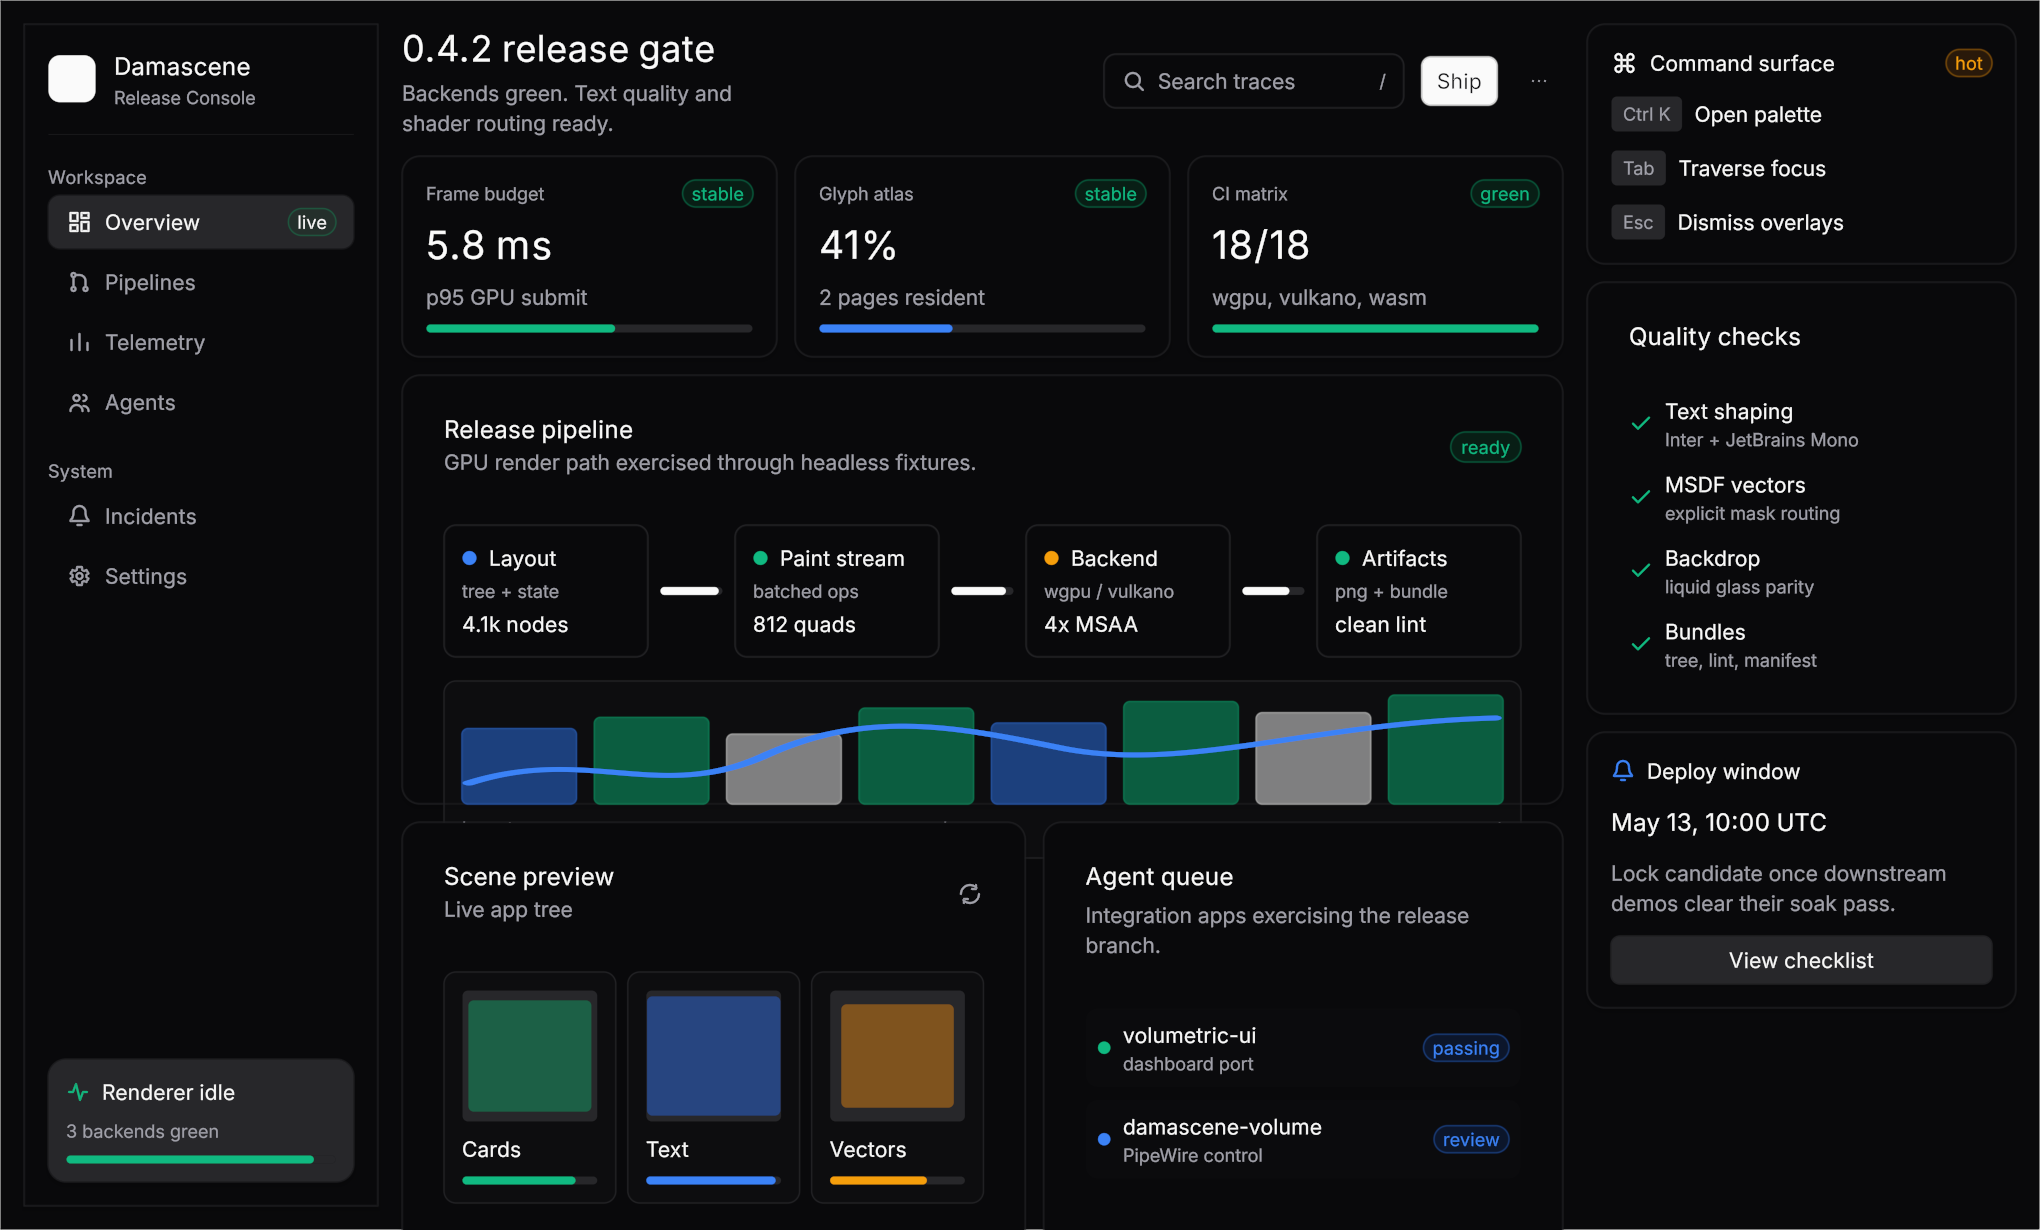
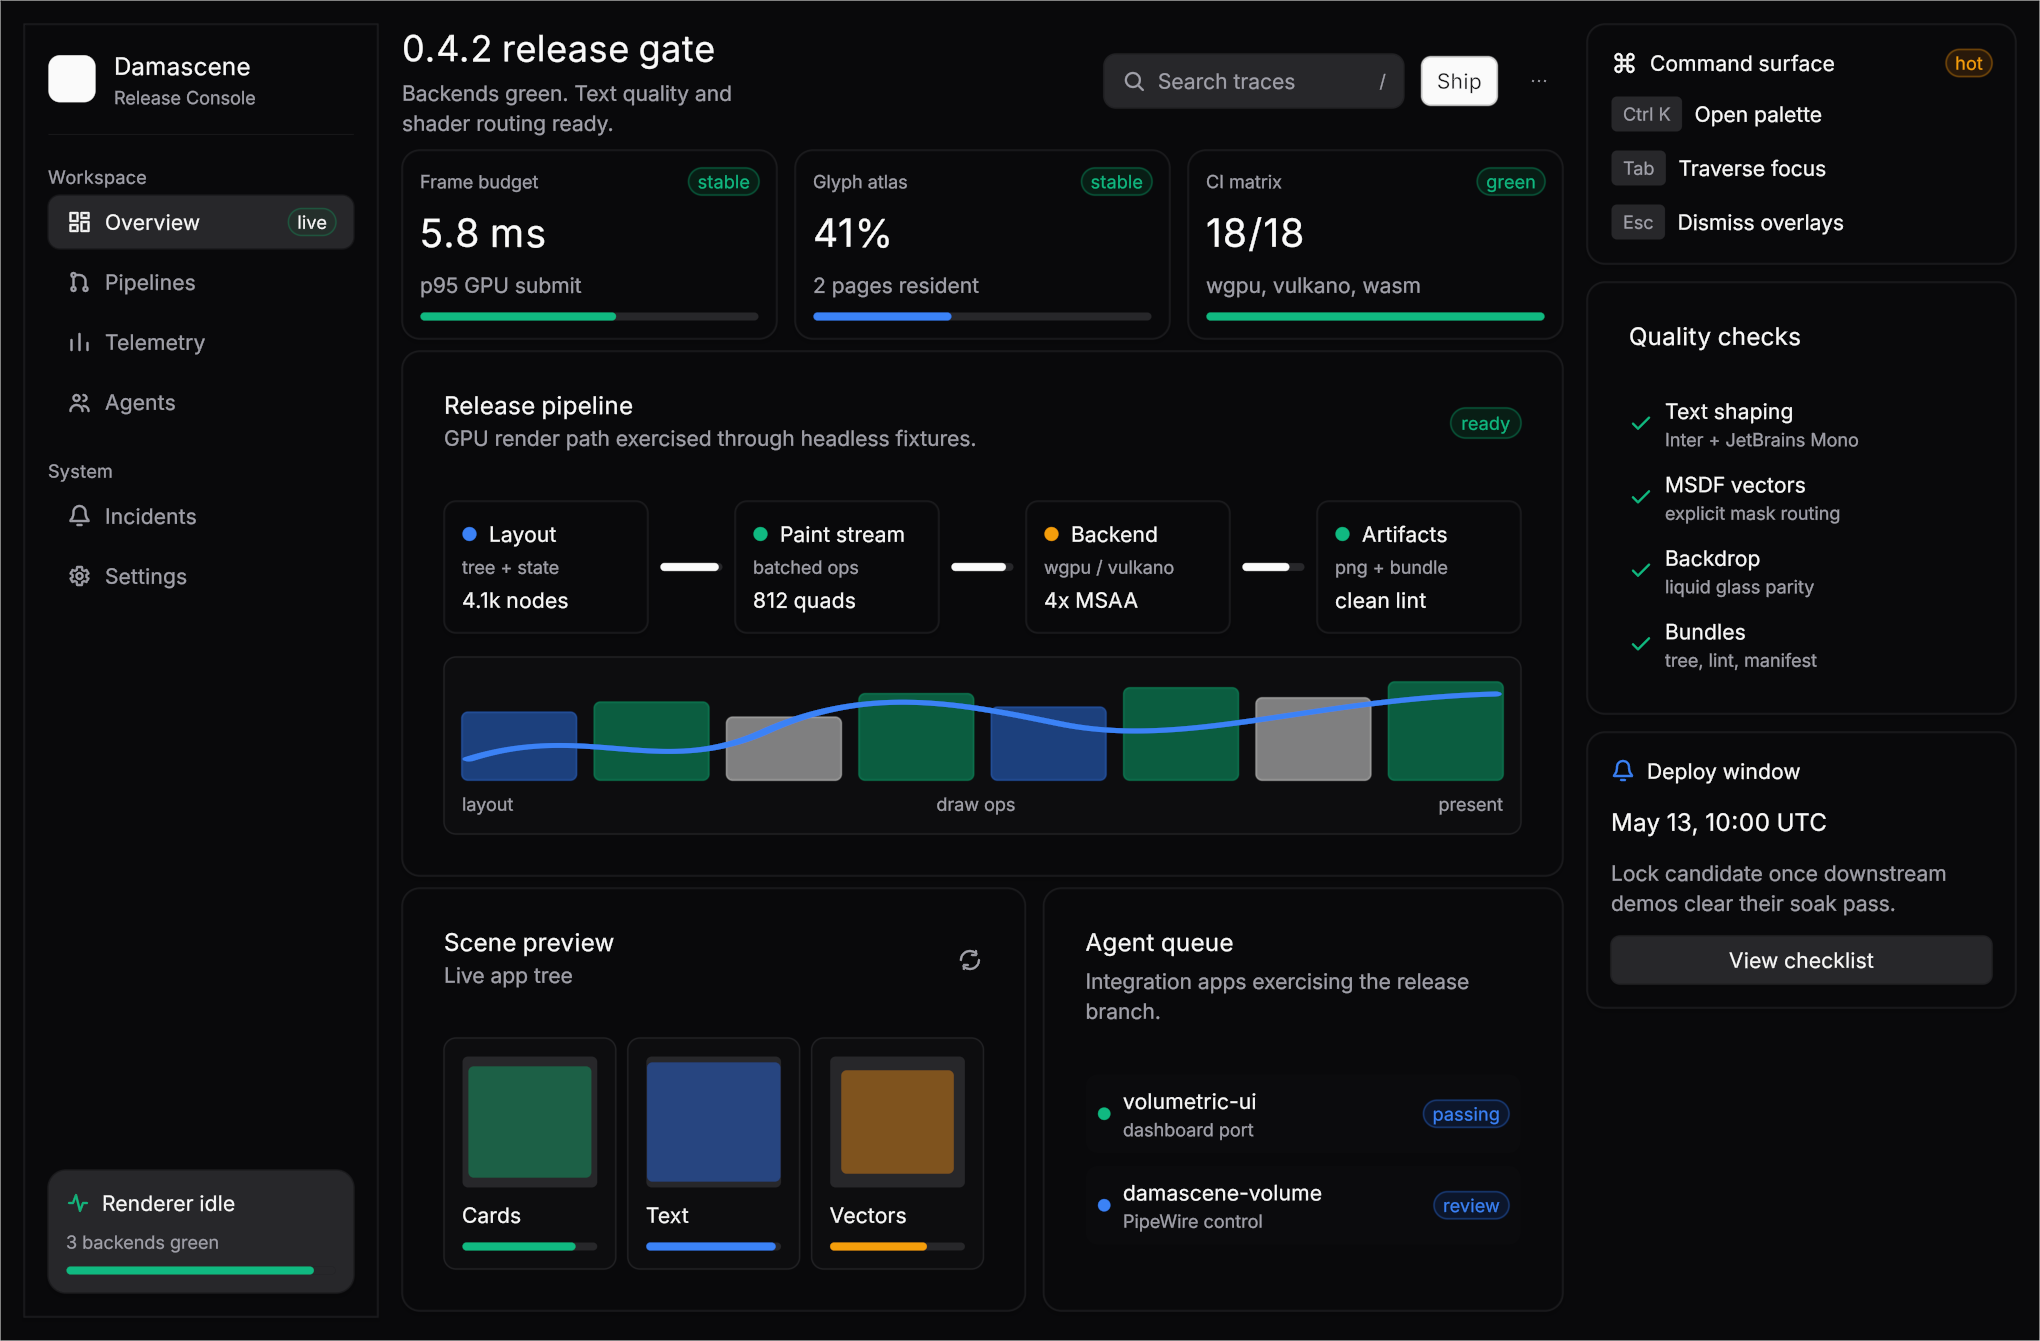
fix(hero): clear bundle lint findings and guard them in CI
The HeroDemo bundle carried 8 lint findings while its own UI rendered
"Artifacts -> clean lint". They predate the release — hero.rs and the
lint rules are unchanged since v0.4.1, so this is not a 0.4.x
regression, just a long-standing gap.

Findings and fixes:
- 5x ReinventedWidget: the pipeline stage chips hand-rolled the
  CARD-fill + BORDER card recipe (now card()), and the search box used
  the CARD fill where an input surface wants MUTED (matching
  text_input).
- 3x Overflow: the pipeline card was pinned 60px shorter than its
  content (drop the fixed height so it hugs), the tallest chart bar
  spilled its row by 3px (trim the height formula), and the panel ran
  taller than the 820px README frame (bump render height to 894). The
  hero image is correspondingly taller (1360x894).

Add a hero_bundle_is_lint_clean lib test that renders the bundle at the
shipped size and asserts zero findings; the existing `cargo test
--workspace --lib` CI step picks it up. Hoist the canvas into a shared
HERO_LOGICAL_SIZE const so the renderer and test can't drift, and
re-enable bundled fonts in the fixtures dev-dependency (overflow
findings depend on text layout) — mirroring the issue #49 pattern.

diff --git a/crates/damascene-fixtures/src/hero.rs b/crates/damascene-fixtures/src/hero.rs
@@ -9,6 +9,13 @@ use damascene_core::prelude::*;
 #[derive(Clone, Debug, Default)]
 pub struct HeroDemo;
 
+/// Logical-pixel canvas the README hero renders at. Shared with
+/// `tools/src/bin/render_hero.rs` (the renderer) and the lint
+/// regression test below so the asserted-clean size never drifts from
+/// the shipped one. The dashboard is dense enough that its height is
+/// sized to the content rather than a round number.
+pub const HERO_LOGICAL_SIZE: (u32, u32) = (1360, 894);
+
 impl App for HeroDemo {
     fn build(&self, _cx: &BuildCx) -> El {
         stack([
@@ -136,7 +143,7 @@ fn main_panel() -> El {
             .gap(tokens::SPACE_3)
             .align(Align::Stretch),
     ])
-    .gap(tokens::SPACE_3)
+    .gap(tokens::SPACE_2)
     .width(Size::Fill(1.0))
     .height(Size::Fill(1.0))
 }
@@ -178,7 +185,11 @@ fn search_box() -> El {
     .padding(Sides::xy(tokens::SPACE_3, tokens::SPACE_2))
     .width(Size::Fixed(200.0))
     .radius(tokens::RADIUS_MD)
-    .fill(tokens::CARD)
+    // Input surface, not a card: the search affordance is a command-
+    // palette trigger styled like a text field. Inputs use the MUTED
+    // fill (matching text_input's surface) — CARD fill here read as a
+    // hand-rolled card to the ReinventedWidget lint.
+    .fill(tokens::MUTED)
     .stroke(tokens::BORDER)
 }
 
@@ -203,7 +214,7 @@ fn metric_card(
         progress(amount, color),
     ])
     .gap(tokens::SPACE_2)
-    .padding(tokens::SPACE_4)
+    .padding(tokens::SPACE_3)
     .width(Size::Fill(1.0))
 }
 
@@ -247,11 +258,13 @@ fn pipeline_card() -> El {
     ])
     .gap(tokens::SPACE_2)
     .padding(tokens::SPACE_1)
-    .height(Size::Fixed(286.0))
 }
 
 fn stage(title: &'static str, subtitle: &'static str, value: &'static str, color: Color) -> El {
-    column([
+    // A pipeline stage is a small boxed surface — use card() rather than
+    // hand-rolling the CARD-fill + BORDER recipe (ReinventedWidget). The
+    // explicit padding/radius/gap keep the original chip proportions.
+    card([
         row([
             column(Vec::<El>::new())
                 .width(Size::Fixed(10.0))
@@ -267,10 +280,7 @@ fn stage(title: &'static str, subtitle: &'static str, value: &'static str, color
     ])
     .gap(tokens::SPACE_1)
     .padding(tokens::SPACE_3)
-    .width(Size::Fill(1.0))
     .radius(tokens::RADIUS_MD)
-    .fill(tokens::CARD)
-    .stroke(tokens::BORDER)
 }
 
 fn connector(amount: f32) -> El {
@@ -313,7 +323,7 @@ fn chart_grid() -> El {
 fn chart_bar(amount: f32, color: Color) -> El {
     column(Vec::<El>::new())
         .width(Size::Fill(1.0))
-        .height(Size::Fixed(18.0 + amount * 62.0))
+        .height(Size::Fixed(16.0 + amount * 56.0))
         .radius(tokens::RADIUS_SM)
         .fill(color.with_alpha_u8(120))
         .stroke(color.with_alpha_u8(170))
@@ -509,4 +519,33 @@ fn check_row(title: &'static str, detail: &'static str) -> El {
     ])
     .gap(tokens::SPACE_2)
     .align(Align::Center)
+}
+
+#[cfg(test)]
+mod tests {
+    use super::*;
+
+    // The hero advertises "clean lint" in its own UI; keep that honest.
+    // Renders the bundle at the shipped README size and asserts zero
+    // findings — overflow checks are viewport-sensitive, so this must
+    // use the same canvas as `render_hero`. Needs the bundled fonts
+    // (text shaping drives layout); the crate's dev-dependency on
+    // damascene-core re-enables them for the test build.
+    #[test]
+    fn hero_bundle_is_lint_clean() {
+        let (w, h) = (HERO_LOGICAL_SIZE.0 as f32, HERO_LOGICAL_SIZE.1 as f32);
+        let mut app = HeroDemo;
+        app.before_build();
+        let theme = app.theme();
+        let cx = BuildCx::new(&theme).with_viewport(w, h);
+        let mut tree = app.build(&cx);
+        let bundle = render_bundle(&mut tree, Rect::new(0.0, 0.0, w, h));
+        assert!(
+            bundle.lint.findings.is_empty(),
+            "HeroDemo bundle should be lint-clean at the README render size \
+             ({w}x{h}); found {} finding(s):\n{}",
+            bundle.lint.findings.len(),
+            bundle.lint.text(),
+        );
+    }
 }

diff --git a/tools/src/bin/render_hero.rs b/tools/src/bin/render_hero.rs
@@ -9,8 +9,10 @@ use damascene_fixtures::HeroDemo;
 use damascene_wgpu::{MsaaTarget, Runner};
 
 fn main() -> Result<(), Box<dyn std::error::Error>> {
-    let logical_width: u32 = 1360;
-    let logical_height: u32 = 820;
+    // Canvas size is shared with the hero fixture's lint regression test
+    // (damascene_fixtures::hero::HERO_LOGICAL_SIZE) so the rendered image
+    // and the asserted-clean viewport can't drift apart.
+    let (logical_width, logical_height) = damascene_fixtures::hero::HERO_LOGICAL_SIZE;
     let scale_factor: f32 = 1.5;
     let width = (logical_width as f32 * scale_factor) as u32;
     let height = (logical_height as f32 * scale_factor) as u32;
